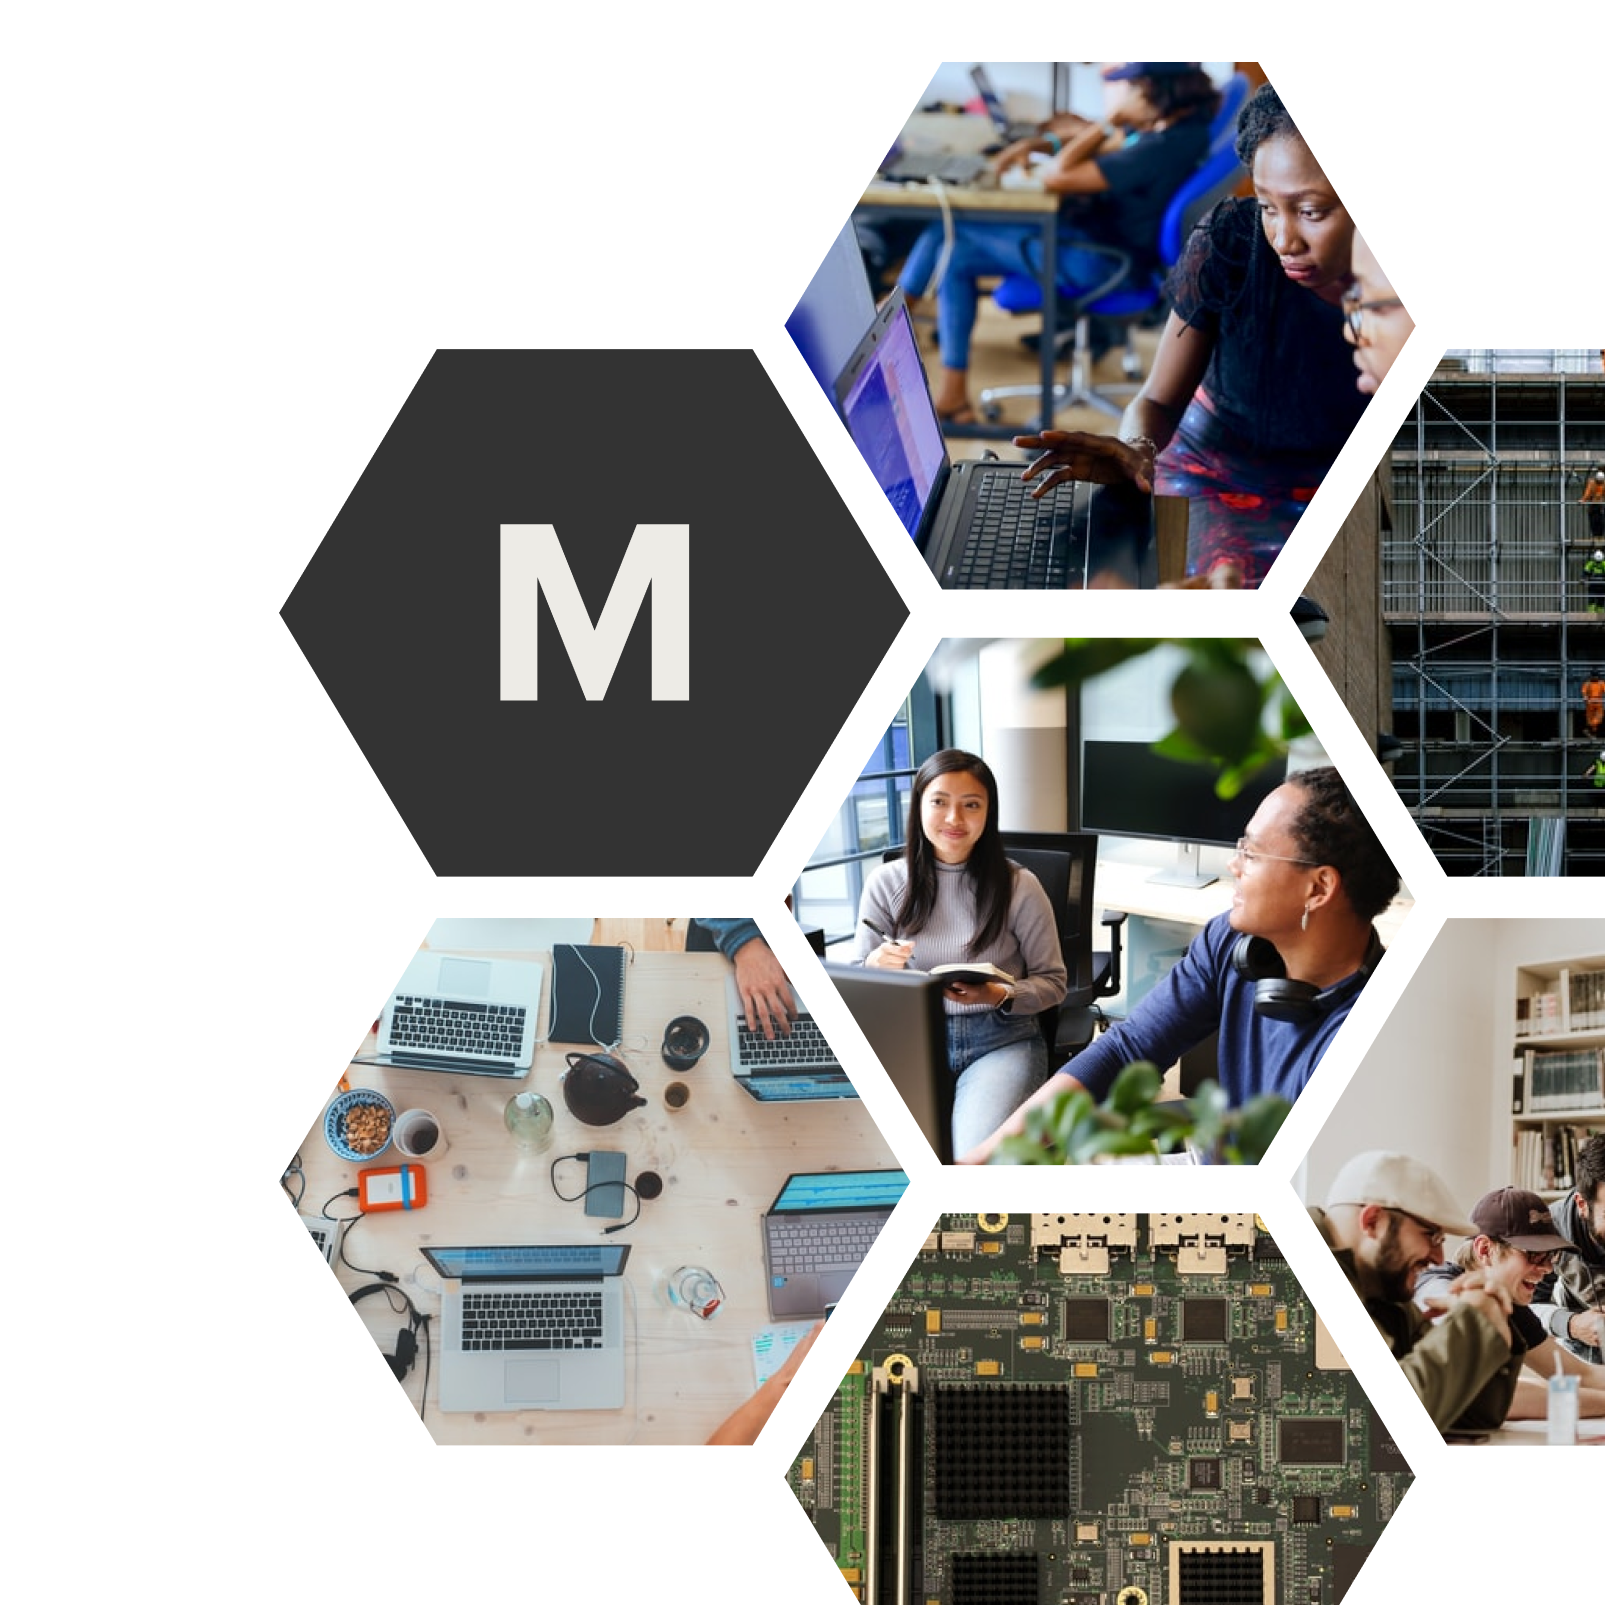
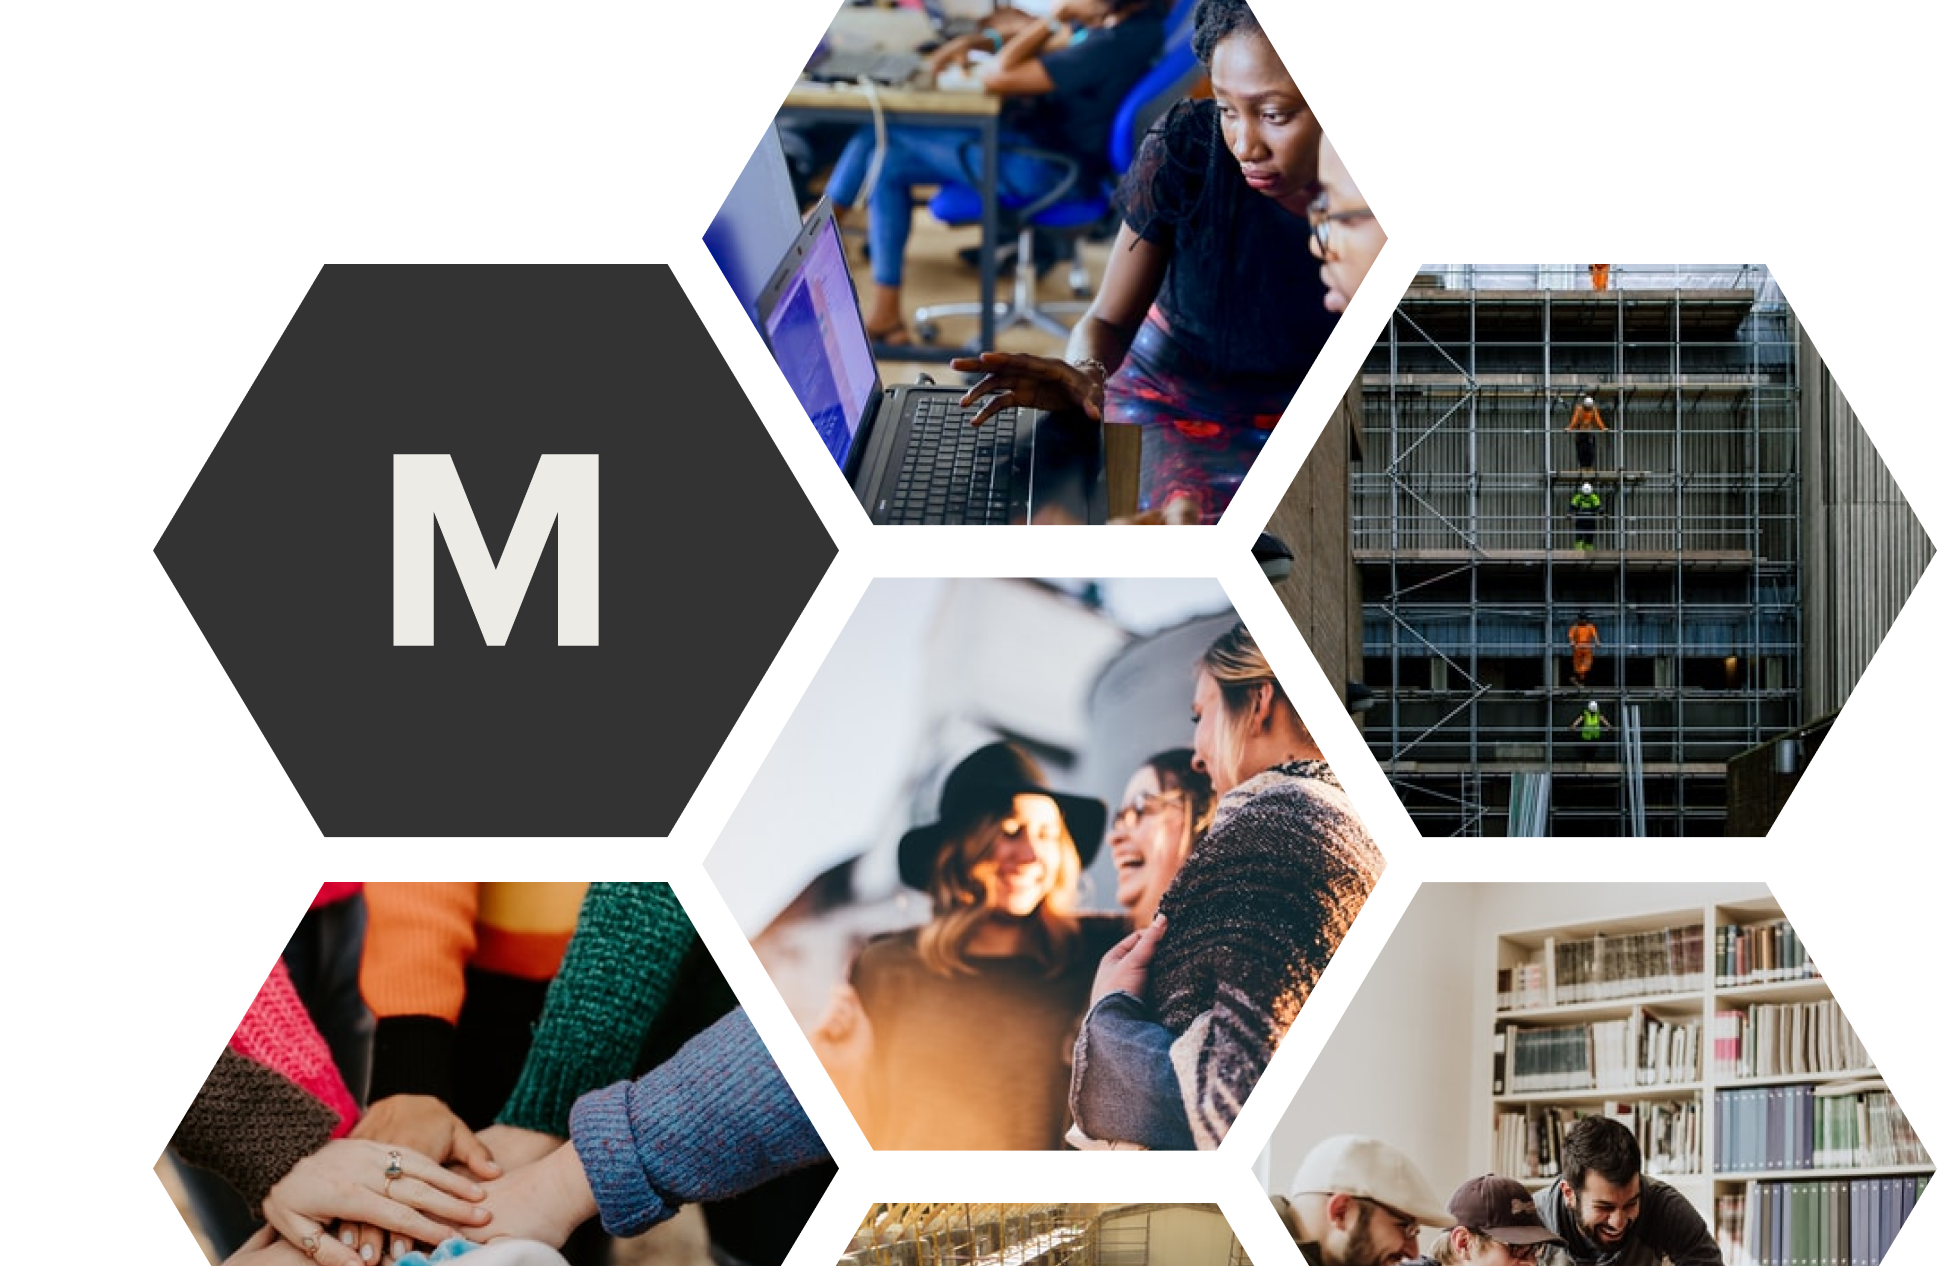
fixing landing page

diff --git a/src/components/LandingPageContent.tsx b/src/components/LandingPageContent.tsx
@@ -1,23 +1,33 @@
-import { Typography, Grid, Container, Box } from '@mui/material'
+import { Typography, Grid, Container, Box, Hidden } from '@mui/material'
 import React, { FC } from 'react'
+import { IGatsbyImageData } from 'gatsby-plugin-image'
+
 import Card from './Card'
 
-import discoverCardImage from '../assets/images/discover.jpg'
-import documentationCardImage from '../assets/images/documentation.jpg'
-import communityCardImage from '../assets/images/community.jpg'
+interface LandingPageProps {
+  images: { readonly name: string; readonly childImageSharp: { readonly gatsbyImageData: IGatsbyImageData } | null }[]
+}
 
-const LandingPage: FC = () => {
+const LandingPage: FC<LandingPageProps> = ({ images }) => {
   return (
-    <Container sx={{ mt: 4 }} maxWidth="xl">
-      <Typography variant="h3" paragraph>
-        How would you like to get started?
-      </Typography>
-      <Grid container columnSpacing={5} rowSpacing={5} sx={{ justifyContent: 'space-between' }}>
+    <Container sx={{ my: 6 }} maxWidth="md">
+      <Hidden smDown>
+        <Typography variant="h3" paragraph>
+          How would you like to get started?
+        </Typography>
+      </Hidden>
+      <Hidden smUp>
+        <Typography variant="h4" paragraph>
+          How would you like to get started?
+        </Typography>
+      </Hidden>
+      <Grid container spacing={4}>
         <Grid item sm={4} xs={12}>
           <Card
             title="Discover"
             description="Product description is pinned to two lines, with ellipses used to truncate any overflow. Lorem ipsum dolor sit met et fiducini mon amor con"
-            image={discoverCardImage}
+            // eslint-disable-next-line @typescript-eslint/no-non-null-assertion
+            image={images.find((image) => image.name === 'discover')!.childImageSharp!.gatsbyImageData}
             to="/discover/"
           />
         </Grid>
@@ -25,7 +35,8 @@ const LandingPage: FC = () => {
           <Card
             title="Documentation"
             description="Product description is pinned to two lines, with ellipses used to truncate any overflow. Lorem ipsum dolor sit met et fiducini mon amor con"
-            image={documentationCardImage}
+            // eslint-disable-next-line @typescript-eslint/no-non-null-assertion
+            image={images.find((image) => image.name === 'documentation')!.childImageSharp!.gatsbyImageData}
             to="/documentation/"
           />
         </Grid>
@@ -33,21 +44,36 @@ const LandingPage: FC = () => {
           <Card
             title="Community"
             description="Product description is pinned to two lines, with ellipses used to truncate any overflow. Lorem ipsum dolor sit met et fiducini mon amor con"
-            image={communityCardImage}
-            to="/community/"
+            // eslint-disable-next-line @typescript-eslint/no-non-null-assertion
+            image={images.find((image) => image.name === 'community')!.childImageSharp!.gatsbyImageData}
+            to="https://support.moata.com/hc/en-gb/community/topics"
+            target="_blank"
           />
         </Grid>
       </Grid>
-      <Box sx={{ paddingTop: 8, paddingBottom: 8 }}>
-        <Typography variant="h3" paragraph>
-          About Labs Portal
-        </Typography>
-        <Typography variant="h5" sx={{ fontWeight: 500 }}>
-          The Moata Labs Portal aims to provide an information source for citizen developers, to help compose their own
-          solutions. The Portal will open up published documentation related to Moata products and provide guidance on
-          how to use them. Additionally, composable solutions from the business will be showcased to inspire and engage
-          the community.
-        </Typography>
+      <Box sx={{ mt: 8 }}>
+        <Hidden smDown>
+          <Typography variant="h3" paragraph>
+            About Labs Portal
+          </Typography>
+          <Typography variant="h5" sx={{ fontWeight: 500 }}>
+            The Moata Labs Portal aims to provide an information source for citizen developers, to help compose their
+            own solutions. The Portal will open up published documentation related to Moata products and provide
+            guidance on how to use them. Additionally, composable solutions from the business will be showcased to
+            inspire and engage the community.
+          </Typography>
+        </Hidden>
+        <Hidden smUp>
+          <Typography variant="h4" paragraph>
+            About Labs Portal
+          </Typography>
+          <Typography variant="h6" sx={{ fontWeight: 500 }}>
+            The Moata Labs Portal aims to provide an information source for citizen developers, to help compose their
+            own solutions. The Portal will open up published documentation related to Moata products and provide
+            guidance on how to use them. Additionally, composable solutions from the business will be showcased to
+            inspire and engage the community.
+          </Typography>
+        </Hidden>
       </Box>
     </Container>
   )

diff --git a/src/components/LandingPageBanner.tsx b/src/components/LandingPageBanner.tsx
@@ -1,7 +1,22 @@
-import { Box, Typography } from '@mui/material'
+import { Stack, Hidden, Box, Typography, TypographyProps } from '@mui/material'
 import React, { FC } from 'react'
 import { useTheme } from '@mui/material/styles'
-import BannerImage from '../assets/images/banner-image.png'
+import { StaticImage } from 'gatsby-plugin-image'
+
+const TypgraphyH2 = (props: TypographyProps) => (
+  <Typography
+    {...props}
+    variant="h3"
+    sx={{
+      fontSize: (theme) => `${60 / theme.typography.htmlFontSize}rem`,
+      letterSpacing: -0.5,
+      lineHeight: 1.2,
+      fontWeight: (theme) => theme.typography.fontWeightMedium,
+    }}
+  />
+)
+
+const BANNER_HEIGHT = 422
 
 const LandingPageBanner: FC = () => {
   const theme = useTheme()
@@ -10,38 +25,70 @@ const LandingPageBanner: FC = () => {
       sx={{
         display: 'flex',
         width: '100%',
-        height: theme.spacing(50),
+        height: BANNER_HEIGHT,
         backgroundColor: theme.palette.primary.main,
         color: 'white',
-        paddingLeft: theme.spacing(8),
       }}
     >
-      <Box sx={{ maxWidth: theme.spacing(95), paddingRight: theme.spacing(8), alignSelf: 'center' }}>
-        <Typography
-          variant="h3"
+      <Stack
+        sx={{
+          width: {
+            xl: 727,
+            lg: 528,
+            md: 360,
+            sm: undefined,
+          },
+          ml: {
+            md: theme.spacing(8),
+            xs: theme.spacing(2),
+          },
+          mr: {
+            lg: theme.spacing(8),
+            md: theme.spacing(3),
+            xs: theme.spacing(2),
+          },
+          alignSelf: 'center',
+        }}
+        spacing={3}
+      >
+        <Hidden smDown>
+          <TypgraphyH2>Welcome to Labs Portal</TypgraphyH2>
+          <Typography variant="h5">
+            To inspire and enable our Mott MacDonald teams to innovate, collaborate and share on the Moata platform,
+            helping achieve &quot;Engineering innovation on demand&quot;.
+          </Typography>
+        </Hidden>
+        <Hidden smUp>
+          <Typography variant="h3">Welcome to Labs Portal</Typography>
+          <Typography variant="h6">
+            To inspire and enable our Mott MacDonald teams to innovate, collaborate and share on the Moata platform,
+            helping achieve &quot;Engineering innovation on demand&quot;.
+          </Typography>
+        </Hidden>
+      </Stack>
+      <Hidden smDown>
+        <Box
           sx={{
-            fontSize: 60,
-            letterSpacing: '-0.5px',
-            lineHeight: 1.2,
-            fontWeight: 'semibold',
+            flex: 1,
+            display: 'flex',
+            alignItems: 'center',
+            justifyContent: 'center',
+            overflow: 'hidden',
           }}
         >
-          Welcome to Labs Portal
-        </Typography>
-        <Typography variant="h5">
-          To inspire and enable our Mott MacDonald teams to innovate, collaborate and share on the Moata platform,
-          helping achieve &quot;Engineering innovation on demand&quot;.
-        </Typography>
-      </Box>
-      <Box
-        sx={{
-          backgroundImage: `url(${BannerImage})`,
-          flex: 1,
-          backgroundSize: 'auto 150%',
-          backgroundRepeat: 'no-repeat',
-          backgroundPosition: 'center',
-        }}
-      />
+          <StaticImage
+            style={{
+              height: '100%',
+            }}
+            height={BANNER_HEIGHT}
+            backgroundColor="transparent"
+            objectFit="none"
+            placeholder="none"
+            src="../assets/images/banner-image.png"
+            alt="Welcome to the labs portal"
+          />
+        </Box>
+      </Hidden>
     </Box>
   )
 }

diff --git a/src/components/Card.tsx b/src/components/Card.tsx
@@ -1,26 +1,22 @@
 import React, { FC } from 'react'
 import { Button, Card as MuiCard, CardActions, CardContent, CardMedia, Stack, Typography } from '@mui/material'
 import { Link as GatsbyLink } from 'gatsby'
+import { IGatsbyImageData, GatsbyImage } from 'gatsby-plugin-image'
 
-interface Props {
+interface CardProps {
   title: string
   description: string
-  image: string
+  image: IGatsbyImageData
   to: string
+  target?: '_self' | '_blank' | '_parent' | '_top'
 }
 
-const Card: FC<Props> = ({ title, description, image, to }: Props) => {
+const Card: FC<CardProps> = ({ title, description, image, to, target }) => {
   return (
     <MuiCard>
-      <CardMedia
-        component="div"
-        sx={{
-          backgroundImage: `url(${image})`,
-          height: 194,
-          backgroundSize: 'cover',
-          display: 'flex',
-        }}
-      />
+      <CardMedia sx={{ height: 194 }}>
+        <GatsbyImage style={{ height: '100%' }} objectFit="cover" image={image} alt={title} />
+      </CardMedia>
       <CardContent title={description}>
         <Stack spacing={2}>
           <Stack direction="column">
@@ -43,7 +39,7 @@ const Card: FC<Props> = ({ title, description, image, to }: Props) => {
       </CardContent>
 
       <CardActions sx={{ display: 'flex', justifyContent: 'end' }}>
-        <Button component={GatsbyLink} to={to}>
+        <Button component={GatsbyLink} to={to} target={target}>
           Learn More
         </Button>
       </CardActions>

diff --git a/src/pages/index.tsx b/src/pages/index.tsx
@@ -1,14 +1,13 @@
 import React, { FC } from 'react'
-import type { HeadFC } from 'gatsby'
-import { PageProps } from 'gatsby'
+import { graphql, HeadFC, PageProps } from 'gatsby'
 import LandingPageContent from '../components/LandingPageContent'
 import LandingPageBanner from '../components/LandingPageBanner'
 
-const IndexPage: FC<PageProps> = () => {
+const IndexPage: FC<PageProps<Queries.IndexPageQuery>> = ({ data: { allFile } }) => {
   return (
     <>
       <LandingPageBanner />
-      <LandingPageContent />
+      <LandingPageContent images={allFile.edges.map((edge) => edge.node)} />
     </>
   )
 }
@@ -17,3 +16,20 @@ export default IndexPage
 
 // TODO: add more for SEO
 export const Head: HeadFC = () => <title>Home Page</title>
+
+export const pageQuery = graphql`
+  query IndexPage {
+    allFile(
+      filter: { extension: { regex: "/(jpg)|(png)|(tif)|(tiff)|(webp)|(jpeg)/" }, sourceInstanceName: { eq: "images" } }
+    ) {
+      edges {
+        node {
+          name
+          childImageSharp {
+            gatsbyImageData(layout: CONSTRAINED)
+          }
+        }
+      }
+    }
+  }
+`

diff --git a/gatsby-config.ts b/gatsby-config.ts
@@ -81,8 +81,8 @@ const config: GatsbyConfig = {
     {
       resolve: `gatsby-source-filesystem`,
       options: {
-        path: `${__dirname}/src/assets`,
-        name: `assets`,
+        path: `${__dirname}/src/assets/images`,
+        name: `images`,
       },
     },
     {

diff --git a/src/components/Header/index.ts b/src/components/Header/index.ts
@@ -1,5 +1,3 @@
 import Header from './Header'
 
-export { HEADER_HEIGHT } from './Header'
-
 export default Header
